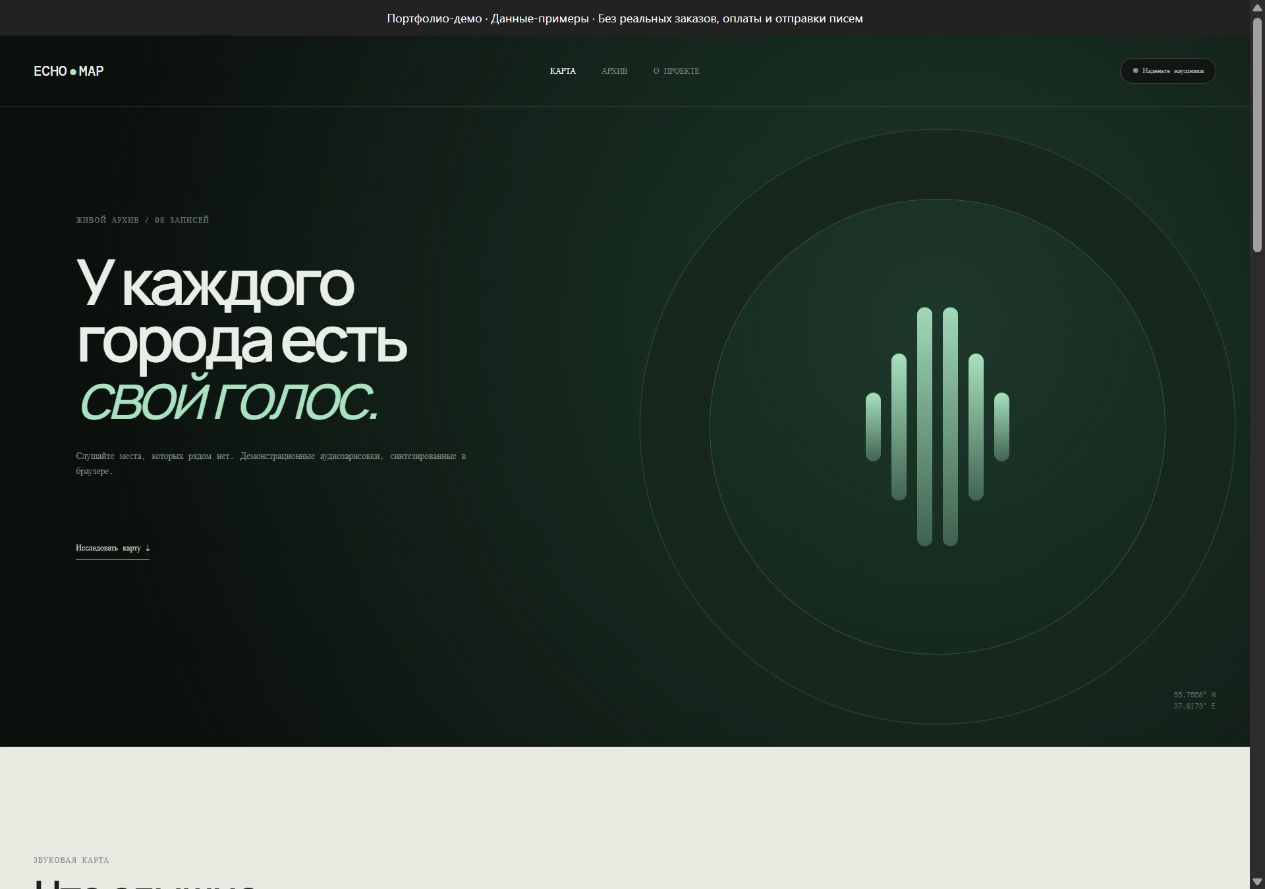
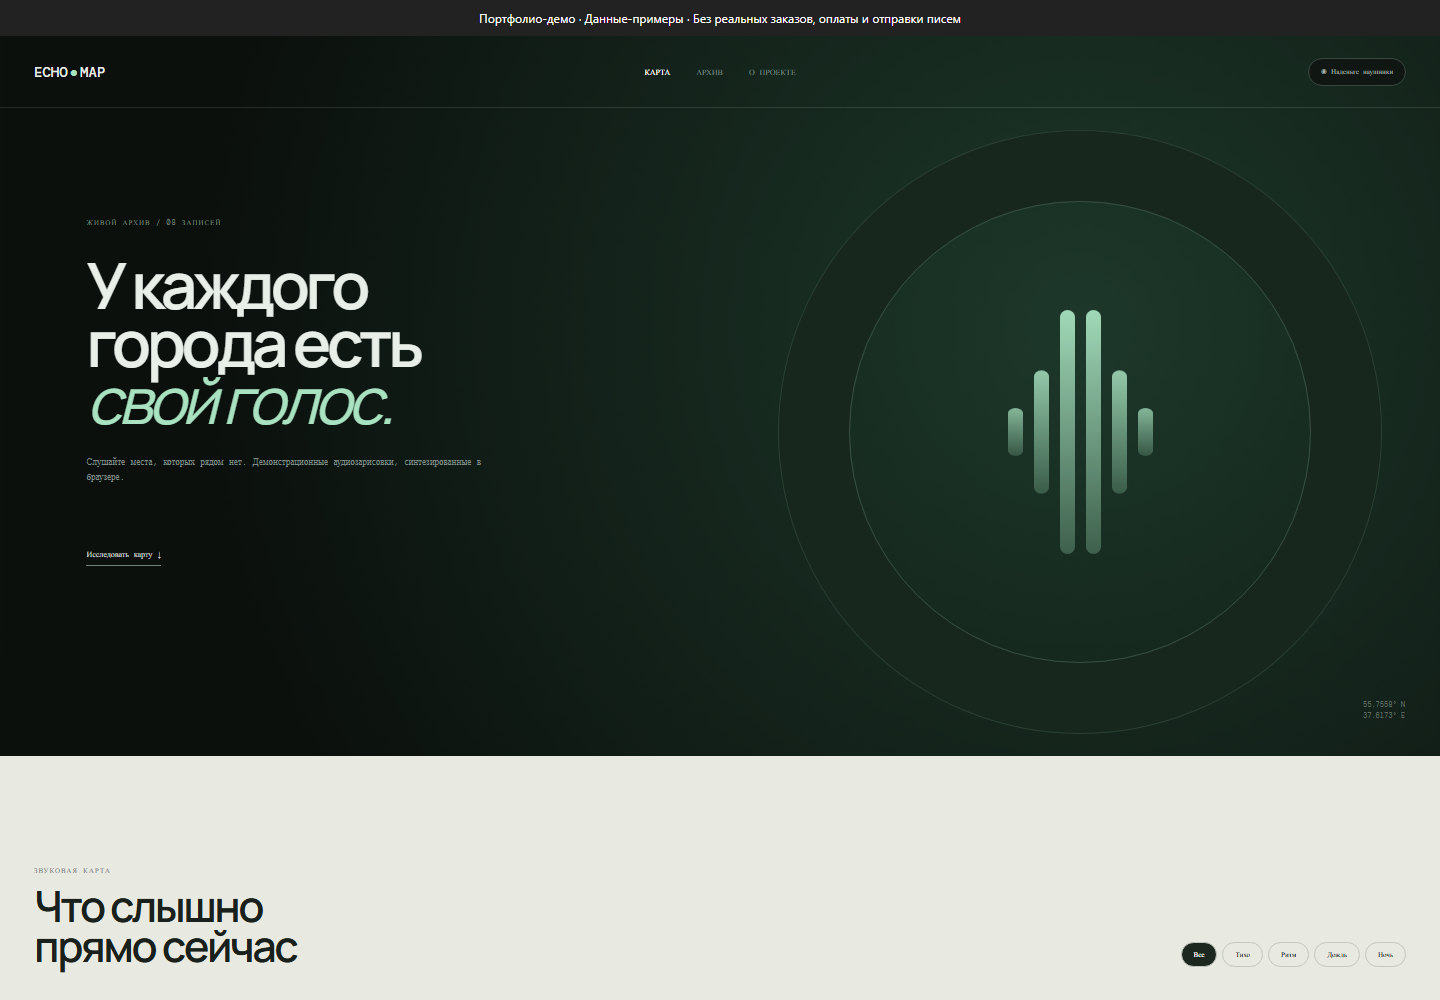
Complete responsive interactions and add browser regression checks

diff --git a/public/app.js b/public/app.js
@@ -1,8 +1,10 @@
+const loadFeedback=document.createElement('p');loadFeedback.className='load-feedback';loadFeedback.setAttribute('role','status');loadFeedback.style.cssText='position:fixed;bottom:16px;left:16px;right:16px;z-index:9999;background:#fff8dd;color:#222;padding:12px 20px;margin:0;font:14px/1.5 system-ui;border-radius:8px';document.querySelector('main').prepend(loadFeedback);let lastLoadArgs=[];
+async function load(...args){lastLoadArgs=args;loadFeedback.hidden=false;loadFeedback.textContent='Загрузка данных…';try{await loadData(...args);loadFeedback.textContent='';loadFeedback.hidden=true;}catch(error){loadFeedback.textContent='Не удалось загрузить данные. ';const retry=document.createElement('button');retry.type='button';retry.textContent='Повторить загрузку';retry.onclick=()=>load(...lastLoadArgs);loadFeedback.append(retry);}}
 let sounds=[],active=0,playing=false,timer,audio;const positions=[['23%','27%'],['58%','38%'],['71%','20%'],['76%','67%'],['28%','72%'],['13%','45%'],['82%','48%'],['48%','16%']];
 const fmt=s=>`${String(Math.floor(s/60)).padStart(2,'0')}:${String(s%60).padStart(2,'0')}`;
-async function load(mood='all'){sounds=await fetch(`/api/sounds?mood=${mood}`).then(r=>r.json());active=0;render();select(0);const stats=await fetch('/api/stats').then(r=>r.json());document.querySelector('#stats').textContent=`${stats.summary.recordings} записей · ${stats.summary.cities} города · ${stats.summary.minutes} минут`;document.querySelector('#minutes').textContent=stats.summary.minutes}
-function render(){document.querySelector('#markers').innerHTML=sounds.map((s,i)=>`<button class="marker ${i===active?'active':''}" style="--x:${positions[i%positions.length][0]};--y:${positions[i%positions.length][1]};--color:${s.color}" data-index="${i}" title="${s.title}"></button>`).join('');document.querySelector('#sound-list').innerHTML=sounds.map((s,i)=>`<article class="sound-row" data-index="${i}" style="--color:${s.color}"><i>${String(i+1).padStart(2,'0')}</i><div><h3>${s.title}</h3><small>${s.city.toUpperCase()} · ${s.district.toUpperCase()}</small></div><span>${s.texture}</span><span>${new Date(s.recorded_at).toLocaleDateString('ru-RU',{day:'numeric',month:'short'})}</span><button>Слушать ${fmt(s.duration)}</button></article>`).join('');document.querySelectorAll('[data-index]').forEach(el=>el.onclick=()=>select(Number(el.dataset.index),el.classList.contains('sound-row')))}
-function select(index,autoplay=false){stop();active=index;const s=sounds[index];if(!s)return;document.querySelector('#cover').style.setProperty('--cover',s.color);document.querySelector('#cover-number').textContent=String(index+1).padStart(2,'0');document.querySelector('#meta').textContent=`${s.city.toUpperCase()} · ${s.district.toUpperCase()}`;document.querySelector('#title').textContent=s.title;document.querySelector('#description').textContent=s.description;document.querySelector('#duration').textContent=fmt(s.duration);document.querySelector('#elapsed').textContent='00:00';document.querySelector('#progress').style.width='0';render();if(autoplay)play()}
-function play(){if(playing){stop();return}const s=sounds[active];audio=new AudioContext();const master=audio.createGain();master.gain.value=.07;master.connect(audio.destination);const osc=audio.createOscillator();const gain=audio.createGain();osc.type=s.texture==='metal'?'square':'sine';osc.frequency.value=s.frequency;gain.gain.value=.32;osc.connect(gain).connect(master);osc.start();const buffer=audio.createBuffer(1,audio.sampleRate*2,audio.sampleRate);const data=buffer.getChannelData(0);for(let i=0;i<data.length;i++)data[i]=(Math.random()*2-1)*(.2+Math.sin(i/18000)*.15);const noise=audio.createBufferSource();const ng=audio.createGain();ng.gain.value=s.texture==='rain'?1.1:.35;noise.buffer=buffer;noise.loop=true;noise.connect(ng).connect(master);noise.start();playing=true;document.querySelector('.play').textContent='■';let elapsed=0;timer=setInterval(()=>{elapsed++;document.querySelector('#elapsed').textContent=fmt(elapsed);document.querySelector('#progress').style.width=`${elapsed/s.duration*100}%`;if(elapsed>=s.duration)stop()},1000)}
+async function loadData(mood='all'){sounds=await fetch(`/api/sounds?mood=${mood}`).then(r=>{if(!r.ok)throw new Error('HTTP '+r.status);return r.json()});active=0;render();select(0);const stats=await fetch('/api/stats').then(r=>{if(!r.ok)throw new Error('HTTP '+r.status);return r.json()});document.querySelector('#stats').textContent=`${stats.summary.recordings} записей · ${stats.summary.cities} города · ${stats.summary.minutes} минут`;document.querySelector('#minutes').textContent=stats.summary.minutes}
+function render(){document.querySelector('#markers').innerHTML=sounds.map((s,i)=>`<button class="marker ${i===active?'active':''}" style="--x:${positions[i%positions.length][0]};--y:${positions[i%positions.length][1]};--color:${s.color}" data-index="${i}" title="${s.title}"></button>`).join('');document.querySelector('#sound-list').innerHTML=sounds.map((s,i)=>`<article class="sound-row" data-index="${i}" style="--color:${s.color}"><i>${String(i+1).padStart(2,'0')}</i><div><h3>${s.title}</h3><small>${s.city.toUpperCase()} · ${s.district.toUpperCase()}</small></div><span>${s.texture}</span><span>${new Date(s.recorded_at).toLocaleDateString('ru-RU',{day:'numeric',month:'short'})}</span><button>Слушать ${fmt(s.duration)}</button></article>`).join('')||'<p role="status">По выбранному настроению записей нет.</p>';document.querySelectorAll('[data-index]').forEach(el=>el.onclick=()=>select(Number(el.dataset.index),el.classList.contains('sound-row')))}
+function select(index,autoplay=false){stop();active=index;const s=sounds[index];document.querySelector('.play').disabled=!s;if(!s)return;document.querySelector('#cover').style.setProperty('--cover',s.color);document.querySelector('#cover-number').textContent=String(index+1).padStart(2,'0');document.querySelector('#meta').textContent=`${s.city.toUpperCase()} · ${s.district.toUpperCase()}`;document.querySelector('#title').textContent=s.title;document.querySelector('#description').textContent=s.description;document.querySelector('#duration').textContent=fmt(s.duration);document.querySelector('#elapsed').textContent='00:00';document.querySelector('#progress').style.width='0';render();if(autoplay)play()}
+function play(){if(playing){stop();return}const s=sounds[active];if(!s)return;audio=new AudioContext();const master=audio.createGain();master.gain.value=.07;master.connect(audio.destination);const osc=audio.createOscillator();const gain=audio.createGain();osc.type=s.texture==='metal'?'square':'sine';osc.frequency.value=s.frequency;gain.gain.value=.32;osc.connect(gain).connect(master);osc.start();const buffer=audio.createBuffer(1,audio.sampleRate*2,audio.sampleRate);const data=buffer.getChannelData(0);for(let i=0;i<data.length;i++)data[i]=(Math.random()*2-1)*(.2+Math.sin(i/18000)*.15);const noise=audio.createBufferSource();const ng=audio.createGain();ng.gain.value=s.texture==='rain'?1.1:.35;noise.buffer=buffer;noise.loop=true;noise.connect(ng).connect(master);noise.start();playing=true;document.querySelector('.play').textContent='■';let elapsed=0;timer=setInterval(()=>{elapsed++;document.querySelector('#elapsed').textContent=fmt(elapsed);document.querySelector('#progress').style.width=`${elapsed/s.duration*100}%`;if(elapsed>=s.duration)stop()},1000)}
 function stop(){if(timer)clearInterval(timer);if(audio)audio.close();playing=false;document.querySelector('.play').textContent='▶'}
 document.querySelector('.play').onclick=play;document.querySelector('.next').onclick=()=>select((active+1)%sounds.length);document.querySelector('.previous').onclick=()=>select((active-1+sounds.length)%sounds.length);document.querySelectorAll('[data-mood]').forEach(b=>b.onclick=()=>{document.querySelectorAll('[data-mood]').forEach(x=>x.classList.remove('active'));b.classList.add('active');load(b.dataset.mood)});load();

diff --git a/public/styles.css b/public/styles.css
@@ -1,1 +1,3 @@
 :root{font-family:Manrope,sans-serif;color:#e8eee8;background:#0b100d;--mint:#a8e2c0;--line:#29352e;--muted:#738078}*{box-sizing:border-box}html{scroll-behavior:smooth}body{margin:0;min-width:320px;background:radial-gradient(circle at 75% 10%,#1d382a 0,transparent 28%),#0b100d}button{font:inherit}body>header{position:absolute;z-index:5;left:0;right:0;height:72px;display:grid;grid-template-columns:1fr auto 1fr;align-items:center;padding:0 34px;border-bottom:1px solid #ffffff1c}.logo{font:500 14px DM Mono}.logo span{color:var(--mint);margin:0 2px}nav{display:flex;gap:26px}nav a{color:#7d8981;font:400 8px DM Mono;text-decoration:none;text-transform:uppercase}nav a.active{color:white}.headphones{justify-self:end;border:1px solid #3a4940;border-radius:20px;background:#101713;color:#abb5ae;padding:8px 12px;font:400 7px DM Mono}.intro{position:relative;display:grid;grid-template-columns:1fr 1fr;min-height:720px;padding-top:72px}.intro-copy{padding:100px 6vw 70px}.intro small,.atlas small,.archive small,.about small{font:400 7px DM Mono;letter-spacing:.14em;color:#77847c}.intro h1{margin:26px 0;font-size:64px;line-height:.9;letter-spacing:-.065em}.intro h1 em{color:var(--mint);font-weight:400}.intro p{max-width:410px;color:#7f8b83;font:300 9px/1.7 DM Mono}.intro a{display:inline-block;margin-top:55px;padding-bottom:6px;border-bottom:1px solid #718078;color:#d3dbd5;font:400 8px DM Mono;text-decoration:none}.wave-sculpture{position:relative;display:flex;align-items:center;justify-content:center;gap:11px;overflow:hidden}.wave-sculpture:before{content:'';position:absolute;width:460px;height:460px;border:1px solid #385043;border-radius:50%;box-shadow:0 0 0 70px #17271e,0 0 0 71px #2b4034}.wave-sculpture span{position:relative;z-index:2;width:15px;border-radius:12px;background:linear-gradient(var(--mint),#416450);animation:wave 2.2s ease-in-out infinite}.wave-sculpture span:nth-child(1),.wave-sculpture span:nth-child(6){height:70px}.wave-sculpture span:nth-child(2),.wave-sculpture span:nth-child(5){height:150px;animation-delay:.2s}.wave-sculpture span:nth-child(3),.wave-sculpture span:nth-child(4){height:260px;animation-delay:.4s}@keyframes wave{50%{transform:scaleY(.55);opacity:.65}}.wave-sculpture i{position:absolute;right:35px;bottom:35px;color:#65736a;font:400 7px/1.6 DM Mono;font-style:normal;text-align:right}.atlas{padding:100px 34px;background:#e8e9e1;color:#1a211c}.atlas>header,.section-head{display:flex;justify-content:space-between;align-items:end;margin-bottom:35px}.atlas h2,.archive h2,.about h2{margin:8px 0 0;font-size:43px;line-height:.94;letter-spacing:-.055em}.filters{display:flex;gap:5px}.filters button{border:1px solid #c3c8c0;border-radius:20px;background:none;padding:7px 12px;font:400 7px DM Mono}.filters button.active{background:#1c271f;color:white}.atlas-grid{display:grid;grid-template-columns:1.45fr .65fr;min-height:620px}.map{position:relative;overflow:hidden;background:#ccd4c8}.streets{position:absolute;inset:-20%;background:repeating-linear-gradient(24deg,transparent 0 53px,#aebbac 54px 56px),repeating-linear-gradient(108deg,transparent 0 74px,#b6c2b3 75px 78px)}.river{position:absolute;left:42%;top:-15%;width:17%;height:135%;transform:rotate(-12deg);background:#9ebfbd;border-left:8px solid #d9ded5;border-right:8px solid #d9ded5}.district{position:absolute;color:#7a897e;font:500 7px DM Mono;letter-spacing:.16em}.d1{left:14%;top:22%}.d2{right:13%;top:41%}.d3{left:17%;bottom:20%}.marker{position:absolute;left:var(--x);top:var(--y);z-index:3;width:26px;height:26px;border:6px solid #f1f2ec;border-radius:50%;background:var(--color);box-shadow:0 3px 12px #34443a66;cursor:pointer;transition:.2s}.marker.active{transform:scale(1.45);box-shadow:0 0 0 7px #ffffff70}.map-coords{position:absolute;left:16px;bottom:14px;color:#627167;font:400 6px/1.6 DM Mono}.player{display:flex;flex-direction:column;background:#152018;color:white}.cover{position:relative;display:grid;place-items:center;min-height:300px;background:var(--cover,#9fc7bd);overflow:hidden}.cover-rings i{position:absolute;left:50%;top:50%;width:210px;height:210px;transform:translate(-50%,-50%);border:1px solid #ffffff55;border-radius:50%}.cover-rings i:nth-child(2){width:145px;height:145px}.cover-rings i:nth-child(3){width:75px;height:75px}.cover>span{position:relative;font:500 40px DM Mono;color:#17221b}.player-copy{padding:25px}.player-copy h3{margin:7px 0 12px;font-size:22px}.player-copy p{min-height:45px;margin:0;color:#98a49c;font:300 8px/1.6 DM Mono}.timeline{height:2px;margin-top:25px;background:#3b4840}.timeline i{display:block;width:0;height:100%;background:var(--mint)}.time{display:flex;justify-content:space-between;margin-top:7px;color:#6e7c73;font:400 6px DM Mono}.controls{display:flex;justify-content:center;align-items:center;gap:20px;margin-top:20px}.controls button{border:0;background:none;color:#a7b2aa}.controls .play{display:grid;place-items:center;width:46px;height:46px;border-radius:50%;background:var(--mint);color:#17221b}.archive{padding:110px 34px}.archive .section-head p{color:#77847c;font:400 8px DM Mono}.sound-list{border-top:1px solid var(--line)}.sound-row{display:grid;grid-template-columns:45px 1.2fr .7fr .7fr 80px;gap:18px;align-items:center;padding:18px 0;border-bottom:1px solid var(--line);cursor:pointer}.sound-row>i{display:grid;place-items:center;width:31px;height:31px;border-radius:50%;background:var(--color);color:#182019;font:500 8px DM Mono;font-style:normal}.sound-row h3{margin:0 0 4px;font-size:11px}.sound-row small{font:300 6px DM Mono;letter-spacing:0}.sound-row>span{color:#7d8981;font:300 7px DM Mono}.sound-row button{border:1px solid #334039;border-radius:18px;background:none;color:#b7c0ba;padding:7px;font:400 7px DM Mono}.about{padding:120px 8vw;background:var(--mint);color:#172019}.about small{color:#4f725e}.about h2{max-width:1000px;font-size:55px}.about h2 em{font-weight:400;color:#527563}.about>div{display:grid;grid-template-columns:1fr 1fr;gap:80px;margin-top:60px}.about p{max-width:560px;font:400 10px/1.7 DM Mono}.big-stat{display:flex;align-items:end;gap:16px}.big-stat strong{font-size:78px;line-height:.8;letter-spacing:-.08em}.big-stat span{font:400 7px/1.5 DM Mono}footer{display:flex;justify-content:space-between;padding:28px 34px;color:#66736b;font:400 7px DM Mono}@media(max-width:800px){body>header{grid-template-columns:1fr auto;padding:0 16px}nav{display:none}.headphones{font-size:0}.headphones:after{content:'◉';font-size:10px}.intro{grid-template-columns:1fr;min-height:680px}.intro-copy{padding:120px 18px}.intro h1{font-size:48px}.wave-sculpture{position:absolute;right:-230px;top:120px;width:430px;height:430px;opacity:.35}.atlas{padding:75px 14px}.atlas>header{display:block}.filters{margin-top:25px;overflow:auto}.atlas-grid{grid-template-columns:1fr}.map{min-height:440px}.player{min-height:550px}.archive{padding:80px 14px}.section-head{display:block}.sound-row{grid-template-columns:38px 1fr 65px}.sound-row>span:nth-of-type(1),.sound-row>span:nth-of-type(2){display:none}.about{padding:80px 18px}.about h2{font-size:40px}.about>div{grid-template-columns:1fr}.big-stat strong{font-size:60px}}
+
+.intro{position:relative;overflow:hidden}

diff --git a/public/index.html b/public/index.html
@@ -1,7 +1,7 @@
 <!doctype html>
 <html lang="ru"><head><meta charset="UTF-8"><meta name="viewport" content="width=device-width,initial-scale=1"><meta name="description" content="EchoMap — интерактивный атлас городских звуков"><link rel="preconnect" href="https://fonts.googleapis.com"><link rel="preconnect" href="https://fonts.gstatic.com" crossorigin><link href="https://fonts.googleapis.com/css2?family=DM+Mono:wght@300;400;500&family=Manrope:wght@400;500;600&display=swap" rel="stylesheet"><link rel="stylesheet" href="styles.css"><title>EchoMap — urban sound atlas</title></head>
 <body>
-<div role="note" style="padding:9px 16px;background:#222;color:#fff;font:12px/1.5 system-ui;text-align:center">Портфолио-демо · Данные-примеры · Без реальных заказов, оплаты и отправки писем</div><header><a class="logo">ECHO<span>●</span>MAP</a><nav><a class="active" href="#map">Карта</a><a href="#archive">Архив</a><a href="#about">О проекте</a></nav><button class="headphones">◉ Наденьте наушники</button></header>
+<div role="note" style="padding:9px 16px;background:#222;color:#fff;font:12px/1.5 system-ui;text-align:center">Портфолио-демо · Данные-примеры · Без реальных заказов, оплаты и отправки писем</div><header><a class="logo">ECHO<span>●</span>MAP</a><nav><a class="active" href="#map">Карта</a><a href="#archive">Архив</a><a href="#about">О проекте</a></nav><span class="headphones">◉ Наденьте наушники</span></header>
 <main><section class="intro"><div class="intro-copy"><small>ЖИВОЙ АРХИВ / 08 ЗАПИСЕЙ</small><h1>У каждого<br>города есть<br><em>свой голос.</em></h1><p>Слушайте места, которых рядом нет. Демонстрационные аудиозарисовки, синтезированные в браузере.</p><a href="#map">Исследовать карту ↓</a></div><div class="wave-sculpture"><span></span><span></span><span></span><span></span><span></span><span></span><i>55.7558° N<br>37.6173° E</i></div></section>
 <section class="atlas" id="map"><header><div><small>ЗВУКОВАЯ КАРТА</small><h2>Что слышно<br>прямо сейчас</h2></div><div class="filters"><button class="active" data-mood="all">Все</button><button data-mood="calm">Тихо</button><button data-mood="pulse">Ритм</button><button data-mood="rain">Дождь</button><button data-mood="night">Ночь</button></div></header><div class="atlas-grid"><div class="map"><div class="streets"></div><div class="river"></div><div class="district d1">ПРЕСНЯ</div><div class="district d2">БАСМАННЫЙ</div><div class="district d3">ХАМОВНИКИ</div><div id="markers"></div><div class="map-coords">MOSCOW / 1:24000<br>JUL 07 · 14:32</div></div><aside class="player"><div class="cover" id="cover"><div class="cover-rings"><i></i><i></i><i></i></div><span id="cover-number">01</span></div><div class="player-copy"><small id="meta">МОСКВА · БАСМАННЫЙ</small><h3 id="title">Утро на Яузе</h3><p id="description">Вода под мостом, редкие велосипеды и первый трамвай.</p><div class="timeline"><i id="progress"></i></div><div class="time"><span id="elapsed">00:00</span><span id="duration">01:24</span></div><div class="controls"><button class="previous">←</button><button class="play">▶</button><button class="next">→</button></div></div></aside></div></section>
 <section class="archive" id="archive"><div class="section-head"><div><small>АУДИОЗАРИСОВКИ</small><h2>Последние<br>добавления</h2></div><p id="stats">Загружаем архив…</p></div><div class="sound-list" id="sound-list"></div></section>

diff --git a/docs/VERIFICATION.md b/docs/VERIFICATION.md
@@ -1,8 +1,5 @@
-# Проверка версии
+# Проверка 24 октября 2026
 
-23 октября 2026.
+Установка зависимостей, существующие API-тесты и новые Playwright-сценарии завершились успешно. Браузер проверен на 1280 × 900 и 390 × 844: загрузка, ширина страницы, отказ API 503 и доступная кнопка повтора. В Nestly дополнительно проверен фильтр избранного.
 
-- `install`: успешно (exit code 0).
-- `test`: успешно (exit code 0).
-
-Зависимости установлены заново в отдельном checkout; `.venv`/`node_modules` не входят в репозиторий. Проверки выполнялись локально; актуальный результат CI виден во вкладке Actions. Нагрузочное тестирование и production-аудит не проводились.
+CI повторяет API и браузерные тесты. Не проводились нагрузочные испытания, проверка мобильных устройств и production-аудит. Данные и бизнес-показатели остаются демонстрационными, как указано в README.

diff --git a/README.md b/README.md
@@ -37,6 +37,15 @@ pnpm start
 - Аудио — синтез, а не реальные полевые записи. Описания, длительности и координаты — демоданные.
 - Загрузки собственных записей, аккаунтов и полноценной картографической подложки нет.
 
+## Проверка интерфейса
+
+Playwright проверяет компьютерную и мобильную версии, отсутствие горизонтального прокручивания и повтор загрузки после ответа API 503. Ошибка отправки формы сохраняет введённые данные.
+
+```bash
+pnpm exec playwright install chromium
+pnpm test:e2e
+```
+
 ## Подробности
 [API, конфигурация и исходные инструкции](docs/TECHNICAL.md).
 
